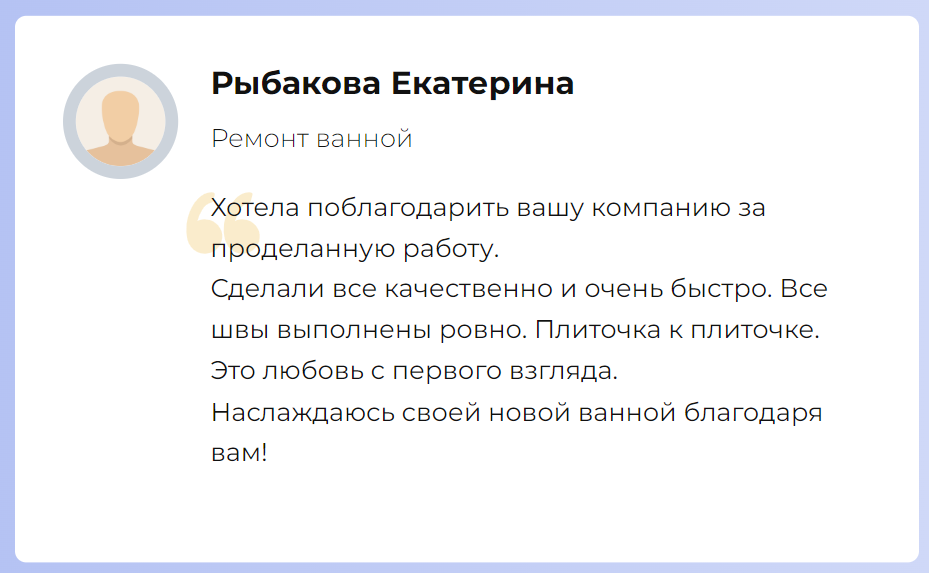
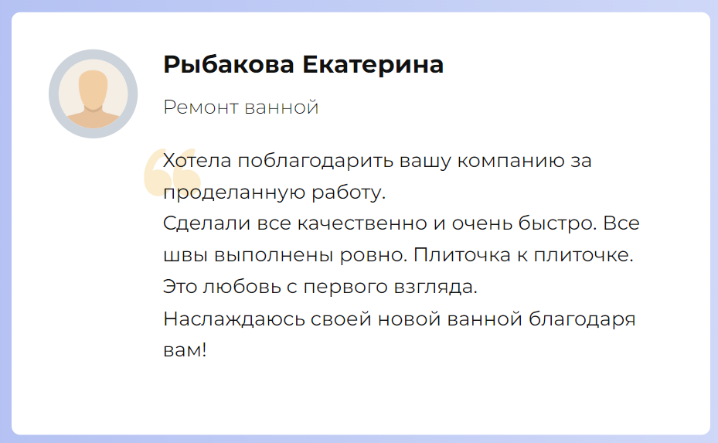
changed feedback size

diff --git a/index.html b/index.html
@@ -373,16 +373,16 @@
 
                         <div class="carousel-inner">
                             <div class="carousel-item active">
-                              <img src="assets/img/feedback/feedback01.png" class="d-block w-60" alt="feedback">
+                              <img src="assets/img/feedback/feedback01.png" class="d-block" alt="feedback">
                             </div>
                             <div class="carousel-item">
-                              <img src="assets/img/feedback/feedback02.png" class="d-block w-60" alt="feedback">
+                              <img src="assets/img/feedback/feedback02.png" class="d-block" alt="feedback">
                             </div>
                             <div class="carousel-item">
-                              <img src="assets/img/feedback/feedback03.png" class="d-block w-60" alt="feedback">
+                              <img src="assets/img/feedback/feedback03.png" class="d-block" alt="feedback">
                             </div>
                             <div class="carousel-item">
-                                <img src="assets/img/feedback/feedback04.png" class="d-block w-60" alt="feedback">
+                                <img src="assets/img/feedback/feedback04.png" class="d-block" alt="feedback">
                               </div>
                           </div>
                           <a class="carousel-control-prev" href="#carouselExampleIndicators" role="button" data-slide="prev">
@@ -406,6 +406,7 @@
 
 
         </section>
+        
     </main>
 
     <footer>

diff --git a/assets/style/style.css b/assets/style/style.css
@@ -459,7 +459,7 @@ main {
 }
 
 .feedback-items {
-  margin-left: 20%;
+  margin-left: 27%;
 }
 
 @media screen and (min-width: 769px) and (max-width: 1279px) {

diff --git a/assets/style/style.scss b/assets/style/style.scss
@@ -180,7 +180,7 @@ main {
 }
 
 .feedback-items {
-    margin-left: 20%;
+    margin-left: 27%;
 }
 
 
